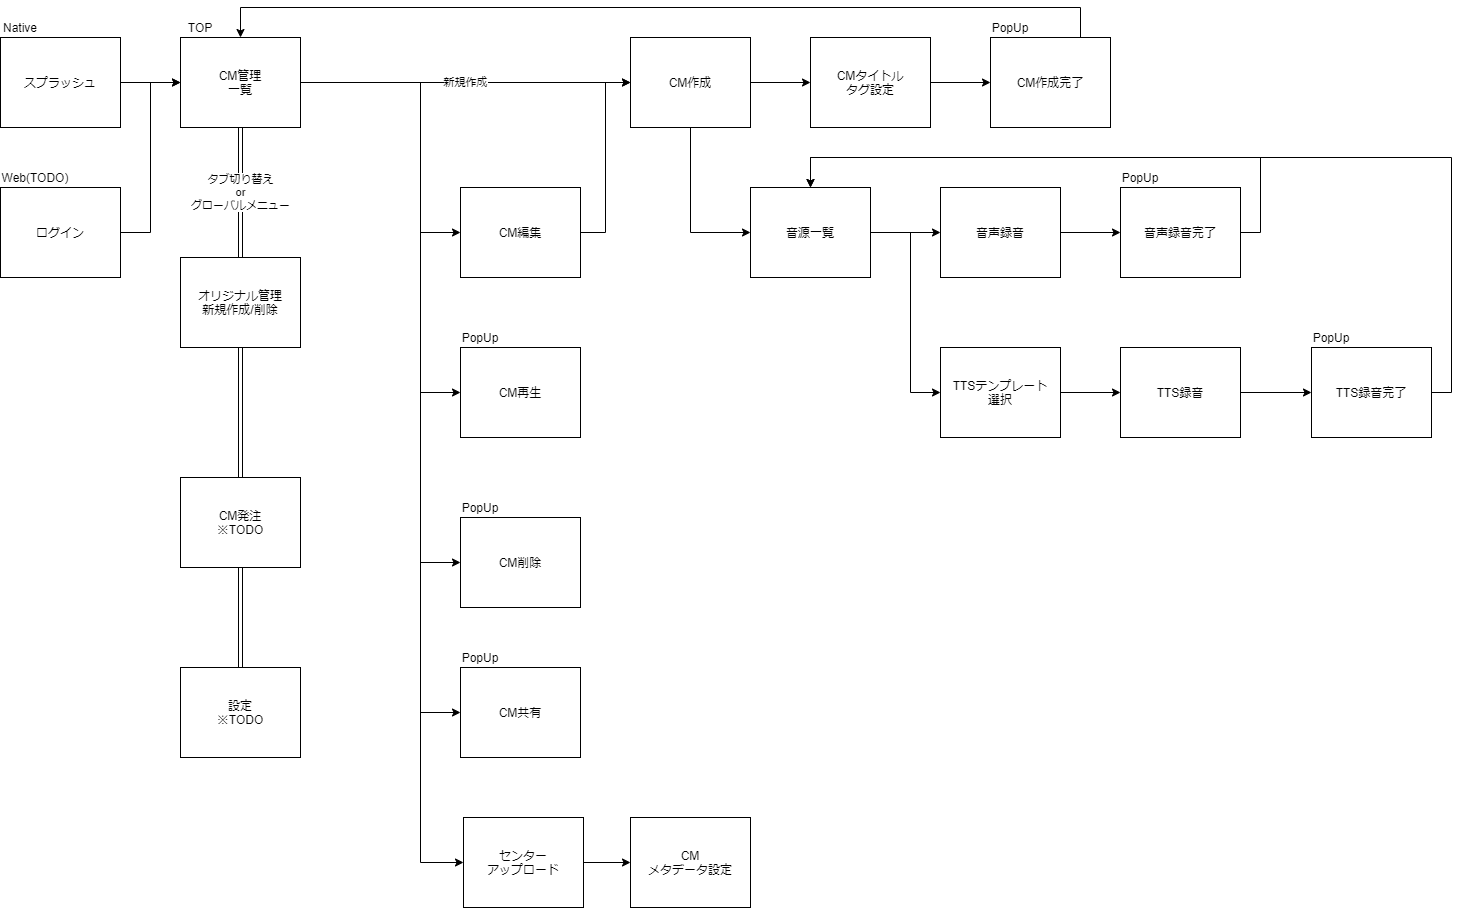
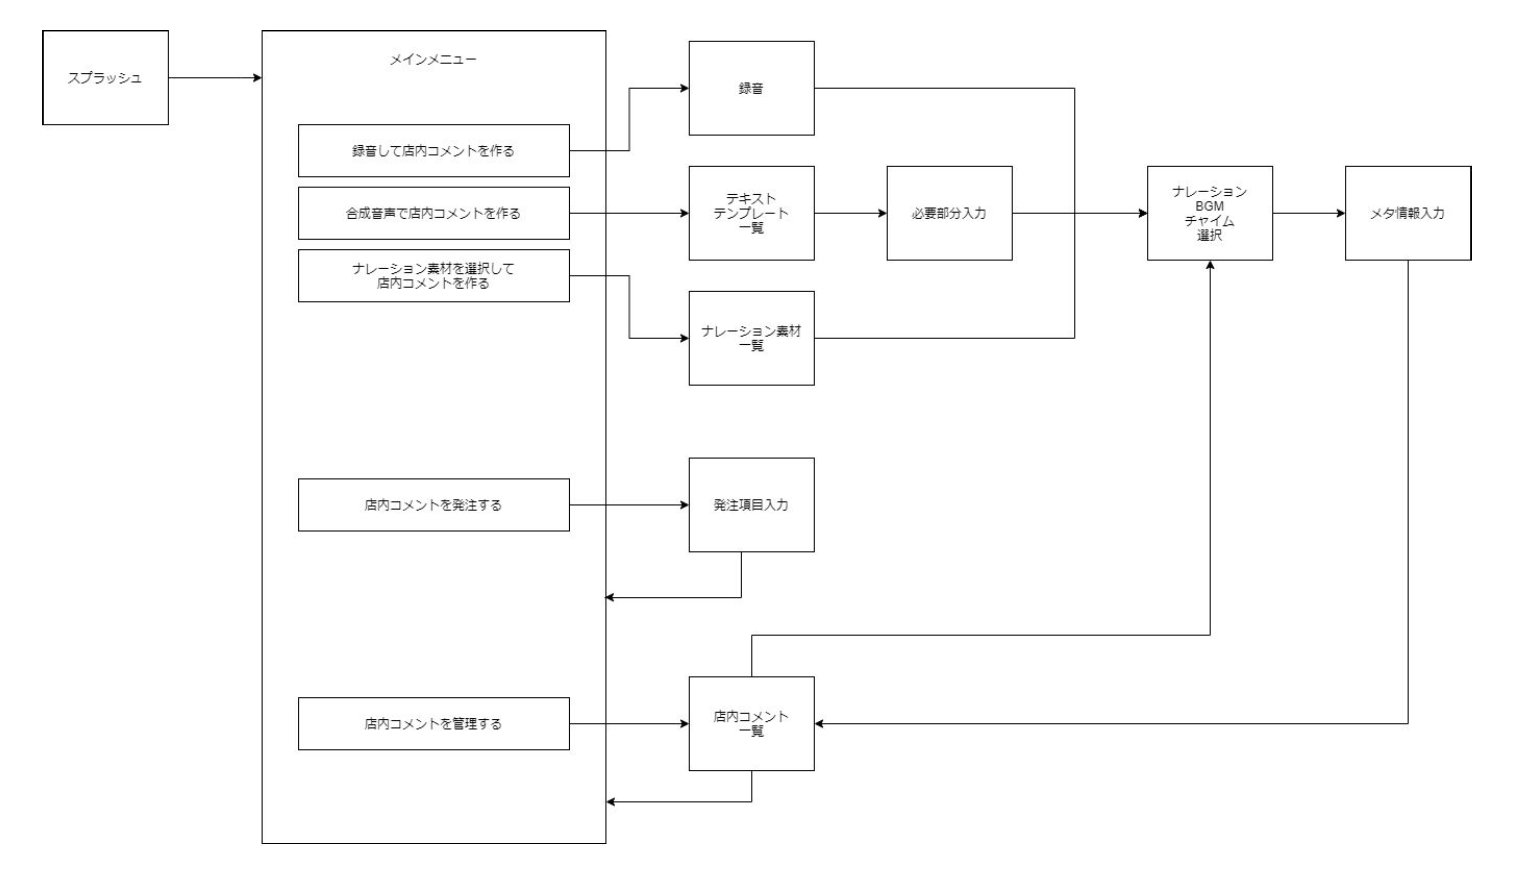
ドキュメント更新

diff --git a/documents/FEATURE_LIST.md b/documents/FEATURE_LIST.md
@@ -7,7 +7,7 @@
 | 機能 | 説明 |  備考 |
 | ---- | ---- | ---- |
 | UNIS顧客CD取得 | MDMからintentでUNIS顧客CDを取得する | |
-| パラメータ | Vuejsとの繋ぎこみ<br>/?custCd=XXXX | |
+| パラメータ | Vuejsとの繋ぎこみ<br>/?unisCustomerCd=XXXX | |
 
 ### Webアプリ（Vue）
 
@@ -20,7 +20,7 @@
 | CM MIX | ffmpegを利用して音源ファイルを結合する | |
 | CM再生 | 作成したCMをストリーム再生する | |
 | CM削除 | 作成したCMを削除する | |
-| CMセンターアップロード | 作成したCMをセンターアップロードし、U-Music上で利用する　センターから削除も可能 | TODO: センターの仕様確認 |
+| CMセンターアップロード | 作成したCMをセンターアップロードし、U-Music上で利用する　センターから削除も可能 | |
 | CM共有 | 同一グループユーザーへ作成したCMを共有する<br>CM共有したユーザーのみがCM共有解除ができる | |
 | CM発注 | 企業CMの依頼を受け、データを送信する | TODO: 方針確認中（リンクで飛ばすだけ） |
 | オリジナル音声一覧 | ユーザーが作成した音声録音、TTS音源を一覧で表示する<br>ソート（タイトル、更新日時）を行えるようにする | |
@@ -31,43 +31,17 @@
 
 ### lambda
 
-| 機能 | protocol | path |
-| ---- | ---- | ---- |
-| 認証 | get | /auth |
-
-| 機能 | protocol | path |
-| ---- | ---- | ---- |
-| ユーザー情報取得 | get | /user |
-| CM一覧取得（ユーザー作成） | get | /user/cm |
-| 録音音声一覧取得（ユーザー作成） | get | /user/recording |
-| TTS音声一覧取得（ユーザー作成） | get | /user/tts |
-| CM作成情報取得（ユーザー作成） | get/post | /user/cm/{cmid} |
-| 録音音声作成情報取得（ユーザー作成） | get/post | /user/recording/{recordingid} |
-| TTS音声作成情報取得（ユーザー作成） | get/post | /user/tts/{ttsid} |
-| チャイム一覧取得（USEN提供素材） | get | /chime |
-| BGM一覧取得（USEN提供素材） | get | /bgm |
-| ナレーション一覧取得（USEN提供素材） | get | /narration |
-| TTSテンプレート一覧取得（USEN提供素材） | get | /tts |
-
-| 機能 | protocol | path |
-| ---- | ---- | ---- |
-| 試聴 | get | /listen |
+※swaggerに記載
 
 ## データ定義
 
-コンテンツは基本的にs3で管理する  
+コンテンツはs3で管理する  
 ユーザー認証、ユーザー情報、CM作成情報はdynamodbで管理する  
 
-### USEN提供素材
+### メタデータ
 
-USENが提供する音源素材は下記
+- USEN提供素材
 
-- ナレーション
-- チャイム
-- BGM
-- TTSテンプレート
-
-メタ情報は下記
 | 区分 | タイトル名 | 説明文 | 原稿 | 秒数 | カテゴリ第一階層（業種） | カテゴリ第二階層（シーン） |
 | --- | --- | --- | --- | --- | --- | --- |
 | ナレーション | 〇 | 〇 | 〇 | 〇 | 〇 | 〇 |
@@ -75,20 +49,13 @@ USENが提供する音源素材は下記
 | BGM | 〇 | 〇 | - | 〇 | 〇 | 〇 |
 | TTSテンプレート | 〇 | 〇 | 〇 | - | 〇 | 〇 |
 
-### オリジナル音源
+- ユーザー作成素材
 
-ユーザーが作成できる音源は下記
-
-- CM
-- 録音音声
-- 合成音声（TTS）
-
-メタ情報は下記
-| 区分 | タイトル名 | 説明文 | 秒数 | カテゴリ（シーン） | 作成日 | 更新日 |
+| 区分 | タイトル名 | 説明文 | 原稿 | 秒数 | カテゴリ第一階層（業種） | カテゴリ第二階層（シーン） |
 | --- | --- | --- | --- | --- | --- | --- |
-| CM | 〇 | 〇(任意) | 〇 | 〇 | 〇 | 〇 |
-| 録音音声 | 〇 | 〇(任意) | 〇 | - | 〇 | 〇 |
-| 合成音声 | 〇 | 〇(任意) | 〇 | - | 〇 | 〇 |
+| CM | 〇 | 〇（任意） | - | 〇 | 〇（固定） | 〇（固定） |
+| 録音音声 | 〇 | 〇（任意） | - | 〇 | 〇（固定） | 〇（固定） |
+| 合成音声 | 〇 | 〇（任意） | - | 〇 | 〇（固定） | 〇（固定） |
 
 ### s3
 
@@ -130,56 +97,67 @@ webapp/
 
 ```none
 {
-  Id: {S: xxxxx},
+  UnisCustomerCd: {S: '顧客CD'},
   Auth: {
     Token: {S: トークンID}
     Expiration: {S: Date},
   },
   Cm: [
     {
-      id: {S, XXXX},
-      ファイル名
-      タイトル
-      説明文
-      素材
-      値
-      センター
-      共有
-    },
-    {
-      id: {S, XXXXX},
-      タイトル
-      説明文
-      素材
-      値
-      センター
-      共有
-    },
+      Id: {S, 'ファイル名'},
+      Title: {S, 'タイトル名'},
+      Description: {S, '説明文'},
+      Seconds: {I, '秒数'},
+      StartDate: {S, '2014-10-10T13:50:40+09:00'},
+      EndDate: {S, '9999-12-31T23:59:59+09:00'},
+      ProductionType: {S, '01: 音楽系, 02: 素ナレ'},
+      Category1: {S: '業種名'},
+      Category2: {S: 'シーン名'},
+      Materials: {
+        Narrations: [
+          {
+            Id: {S, 'ファイル名'},
+            Volume: {I, 'ボリューム値'},
+          }
+        ],
+        StartChime: {
+          Id: {S, 'ファイル名'},
+          Volume: {I, 'ボリューム値'},
+        },
+        EndChime: {
+          Id: {S, 'ファイル名'},
+          Volume: {I, 'ボリューム値'},
+        },
+        Bgm: {
+          Id: {S, 'ファイル名'},
+          Volume: {I, 'ボリューム値'},
+        },
+      },
+      CenterShear: {B, false},
+      GroupShear: {B, false},
+      TimeStamp: {S, '2014-10-10T13:50:40+09:00'}
+    }
   ],
-  recording: [
+  Recording: [
     {
-      id: {S, XXXXX},
-      タイトル
-      説明文
-    },
-    {
-      id: {S, XXXXX},
-      タイトル
-      説明文
-    },
+      Id: {S, 'ファイル名'},
+      Title: {S, 'タイトル名'},
+      Description: {S, '説明文'},
+      Category1: {S: '業種名'},
+      Category2: {S: 'シーン名'},
+      StartDate: {S, '2014-10-10T13:50:40+09:00'},
+      TimeStamp: {S, '2014-10-10T13:50:40+09:00'}
+    }
   ],
   tts: [
     {
-      id: {S, XXXXX},
-      タイトル
-      説明文
-      TTSテンプレート
-    },
-    {
-      id: {S, XXXXX},
-      タイトル
-      説明文
-      TTSテンプレート
+      Id: {S, 'ファイル名'},
+      Title: {S, 'タイトル名'},
+      Description: {S, '説明文'},
+      Category1: {S: '業種名'},
+      Category2: {S: 'シーン名'},
+      StartDate: {S, '2014-10-10T13:50:40+09:00'},
+      TimeStamp: {S, '2014-10-10T13:50:40+09:00'}
     },
   ],
 }
@@ -191,13 +169,14 @@ webapp/
 
 ```none
 {
-  Id: {S: xxxxx},
-  Title: {S: タイトル名},
-  Description: {S: 説明文},
-  Manuscript: {S: 原稿},
-  Seconds: {I: 秒数},
-  Category1: {S: 業種名},
-  Category2: {S: シーン名},
+  Id: {S: 'ファイル名'},
+  Title: {S: 'タイトル名'},
+  Description: {S: '説明文'},
+  Manuscript: {S: '原稿'},
+  Seconds: {I: '秒数'},
+  Category1: {S: '業種名'},
+  Category2: {S: 'シーン名'},
+  TimeStamp: {S, '2014-10-10T13:50:40+09:00'}
 }
 ```
 
@@ -207,11 +186,17 @@ webapp/
 
 ```none
 {
-  Id: {S: xxxxx},
-  Title: {S: タイトル名},
-  Description: {S: 説明文},
-  Seconds: {I: 秒数},
-  Category1: {S: 業種名},
-  Category2: {S: シーン名},
+  UnisCustomerCd: {S, '顧客CD'},
+  DataProcessType: {S, '01: 追加, 02: 変更, 03: 削除'}
+  Id: {S, 'ファイル名'},
+  Title: {S, 'タイトル名'},
+  Description: {S, '説明文'},
+  Seconds: {I, '秒数'},
+  StartDate: {S, '2014-10-10T13:50:40+09:00'},
+  EndDate: {S, '9999-12-31T23:59:59+09:00'},
+  ProductionType: {S, '01: 音楽系, 02: 素ナレ'},
+  Category1: {S: '業種名'},
+  Category2: {S: 'シーン名'},
+  TimeStamp: {S, '2014-10-10T13:50:40+09:00'}
 }
 ```

diff --git a/documents/SCREEN_LIST.md b/documents/SCREEN_LIST.md
@@ -1,25 +1,18 @@
 # 画面
 
+## 画面遷移
+
+![page-flow](uml/page-flow.png)
+
 ## 画面一覧
 
 | 画面 | 説明 |
 | ---- | ---- |
-| スプラッシュ | 起動時に表示する画面<br>表示中にIntentによるユーザーID取得や認証、初期設定を行う |
-| CM管理 | TOP画面<br>作成したCMを一覧で表示する、存在しない場合は空<br>各CMに編集、再生、センターアップロード、削除を行うメニューがある<br>＋マークからCM新規作成を行える<br>絞り込み機能（タグ）、ソート機能（並び順・作成日）あり |
-| オリジナル管理 | 自身で作成した音源（音声録音・TTS録音）を一覧で表示する<br>各音源に視聴、削除を行うメニューがある<br>＋マークから音源新規作成（音声録音・TTS録音）を行える<br>ソート機能（並び順・作成日）あり |
-| CM発注 | TODO：USENに企業オリジナルCMの制作依頼を投げる |
-| 設定 | TODO：お知らせ・ユーザー情報・ライセンス情報など |
-| CM作成 | CMを作成する画面<br>開始/終了チャイム（任意）・ナレーション（必須）・BGM（任意）を選択する<br>視聴ボタンをタップするとMIX処理を行い、視聴することができる<br>視聴しない場合は完了でMIX処理を行う  |
-| CMタイトル・タグ設定 | 作成したCMのタイトル・タグを選択する<br>タグは選択か入力することができる  |
-| 音源一覧 | チャイム・ナレーション・BGM・オリジナル一覧を表示する<br>オリジナルはここから新規作成が可能 |
-| 音声録音 | 音声録音を利用してオリジナルのナレーションを作成する<br>マイクは外部デバイスを想定 |
-| TTSテンプレート選択 | 一覧からTTSで利用するテンプレートを選択する |
-| TTS録音 | 外部TTSを利用してオリジナルのナレーションを作成する<br>選択されたテンプレートにより変更できるテキストフィールドがある（店名・開店時間など）<br>U-DSでこのあたりの情報が取得できる場合は、初期に表示しておく |
-| CM再生 | 作成したCMをローカルで再生する |
-| CM削除 | 作成したCMを削除する<br>センターアップロード済みの場合、削除できないようにする |
-| CM共有 | 作成したCMをグループ内で共有する<br>共有したCMは再生のみ可能<br>共有したユーザーのみ共有解除が可能、解除した場合はグループから表示が消える |
-| センターアップロード | 作成したCMをセンターへアップロードする<br>CMメタの設定を行う<br>センターアップロード後はロックする |
-
-## 画面遷移
-
-![page-flow](uml/page-flow.png)
+| スプラッシュ | 起動時に表示する画面<br>表示中にIntentによるUNIS顧客CDの取得、認証、初期設定を行う |
+| メインメニュー | TOP画面（メインメニュー）<br>大きく3つカテゴリーに分かれており、CMを作成するメニュー、CMを発注するメニュー、作成したCMを管理するメニューがあり、それぞれで各画面へ遷移する |
+| 録音 | デバイスのマイク、もしくは外部入力によるマイクを利用して、音声を録音してナレーション素材を作成する<br>作成後は素材選択画面へ遷移する |
+| TTSテンプレート一覧 | 一覧からTTSで利用する原稿一覧を選択する<br>原稿は「店舗名」「開店時間」などは自由に変更できるようになっている |
+| TTS必要部分入力 | 原稿の変更できる箇所を自由に入力することができる |
+| ナレーション素材一覧 | USEN提供のナレーション素材を一覧から選択する |
+| CM発注 | 専用の入力フォームへ遷移する（TODO） |
+| CM一覧 | 作成したCMを一覧で表示する<br>再生、編集、削除が行える |
